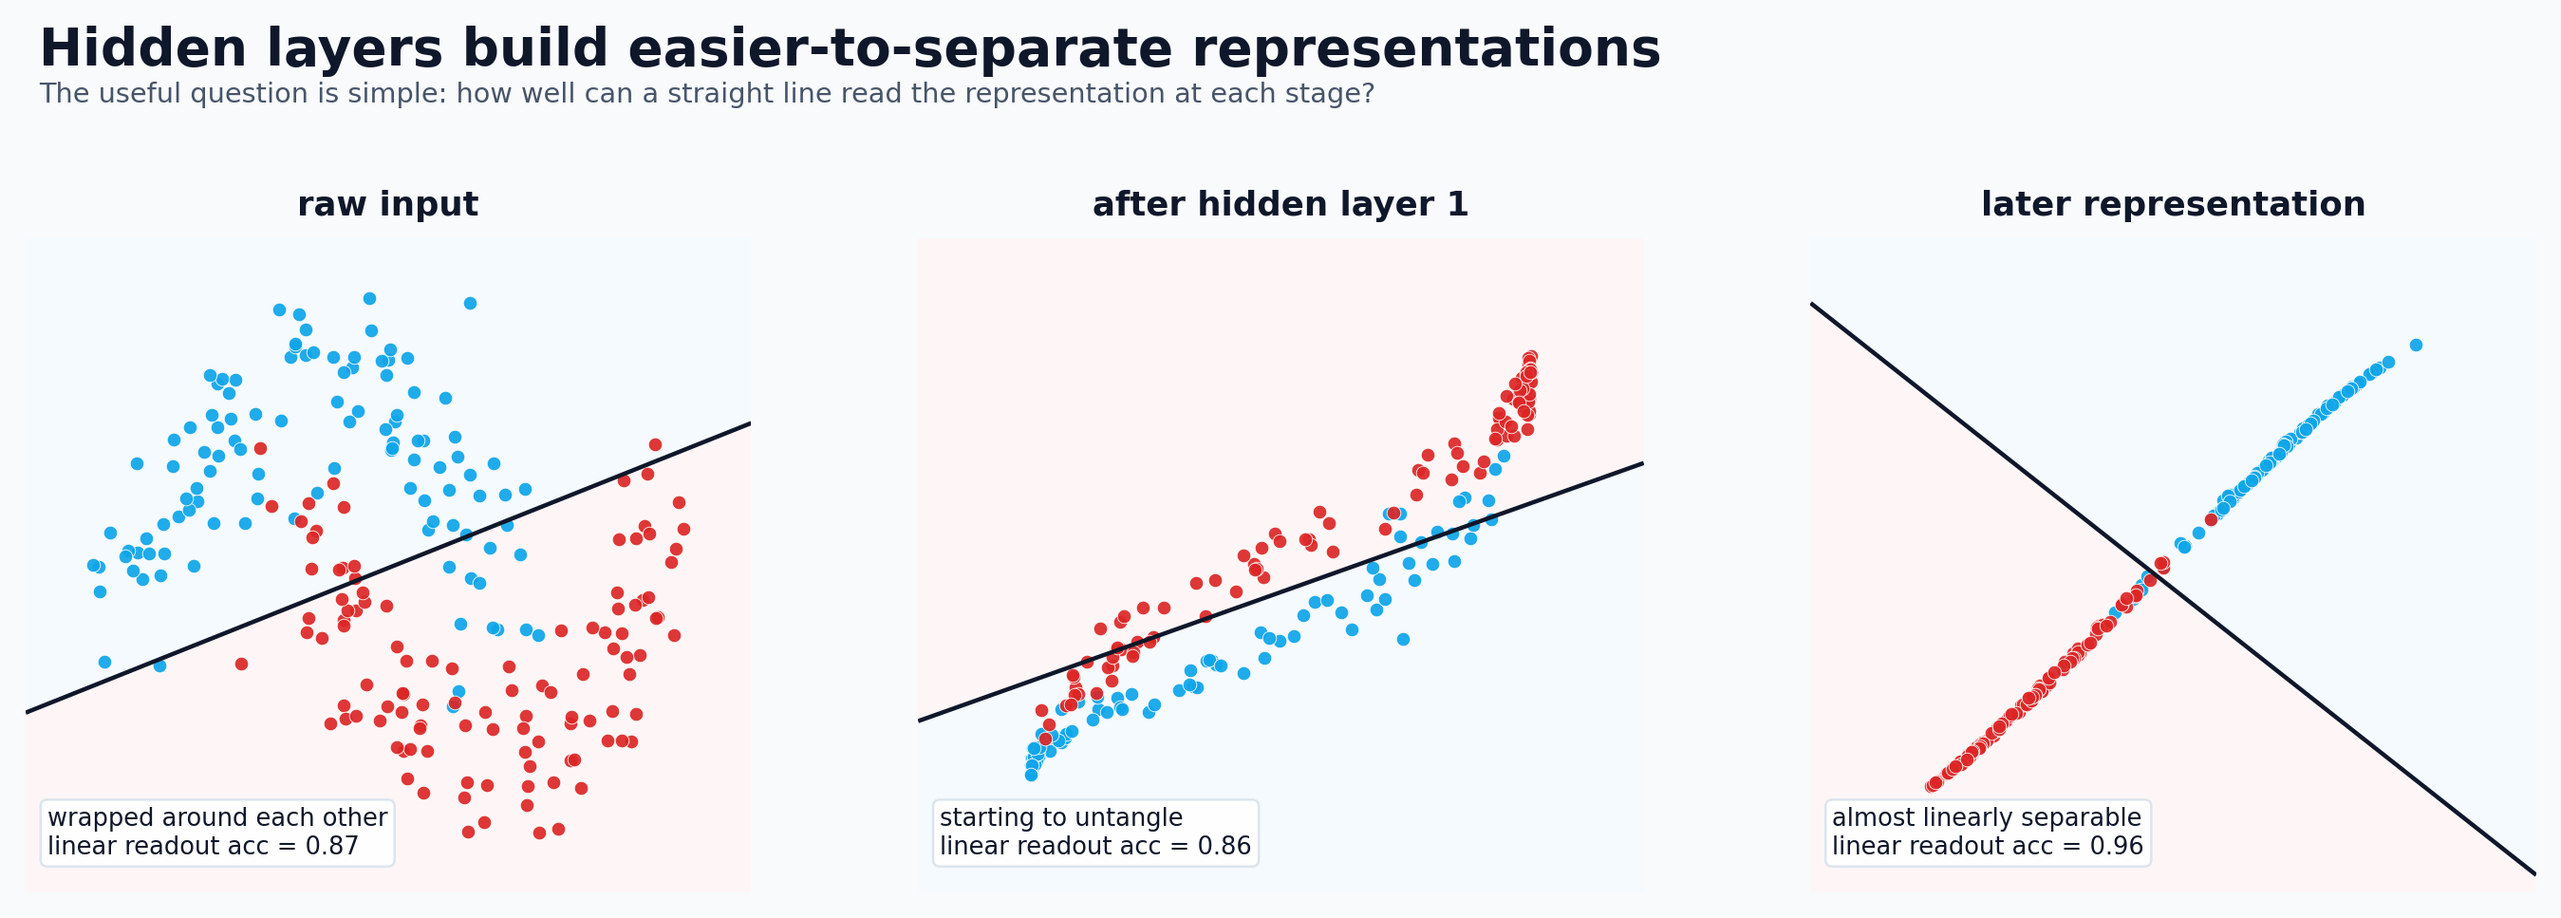
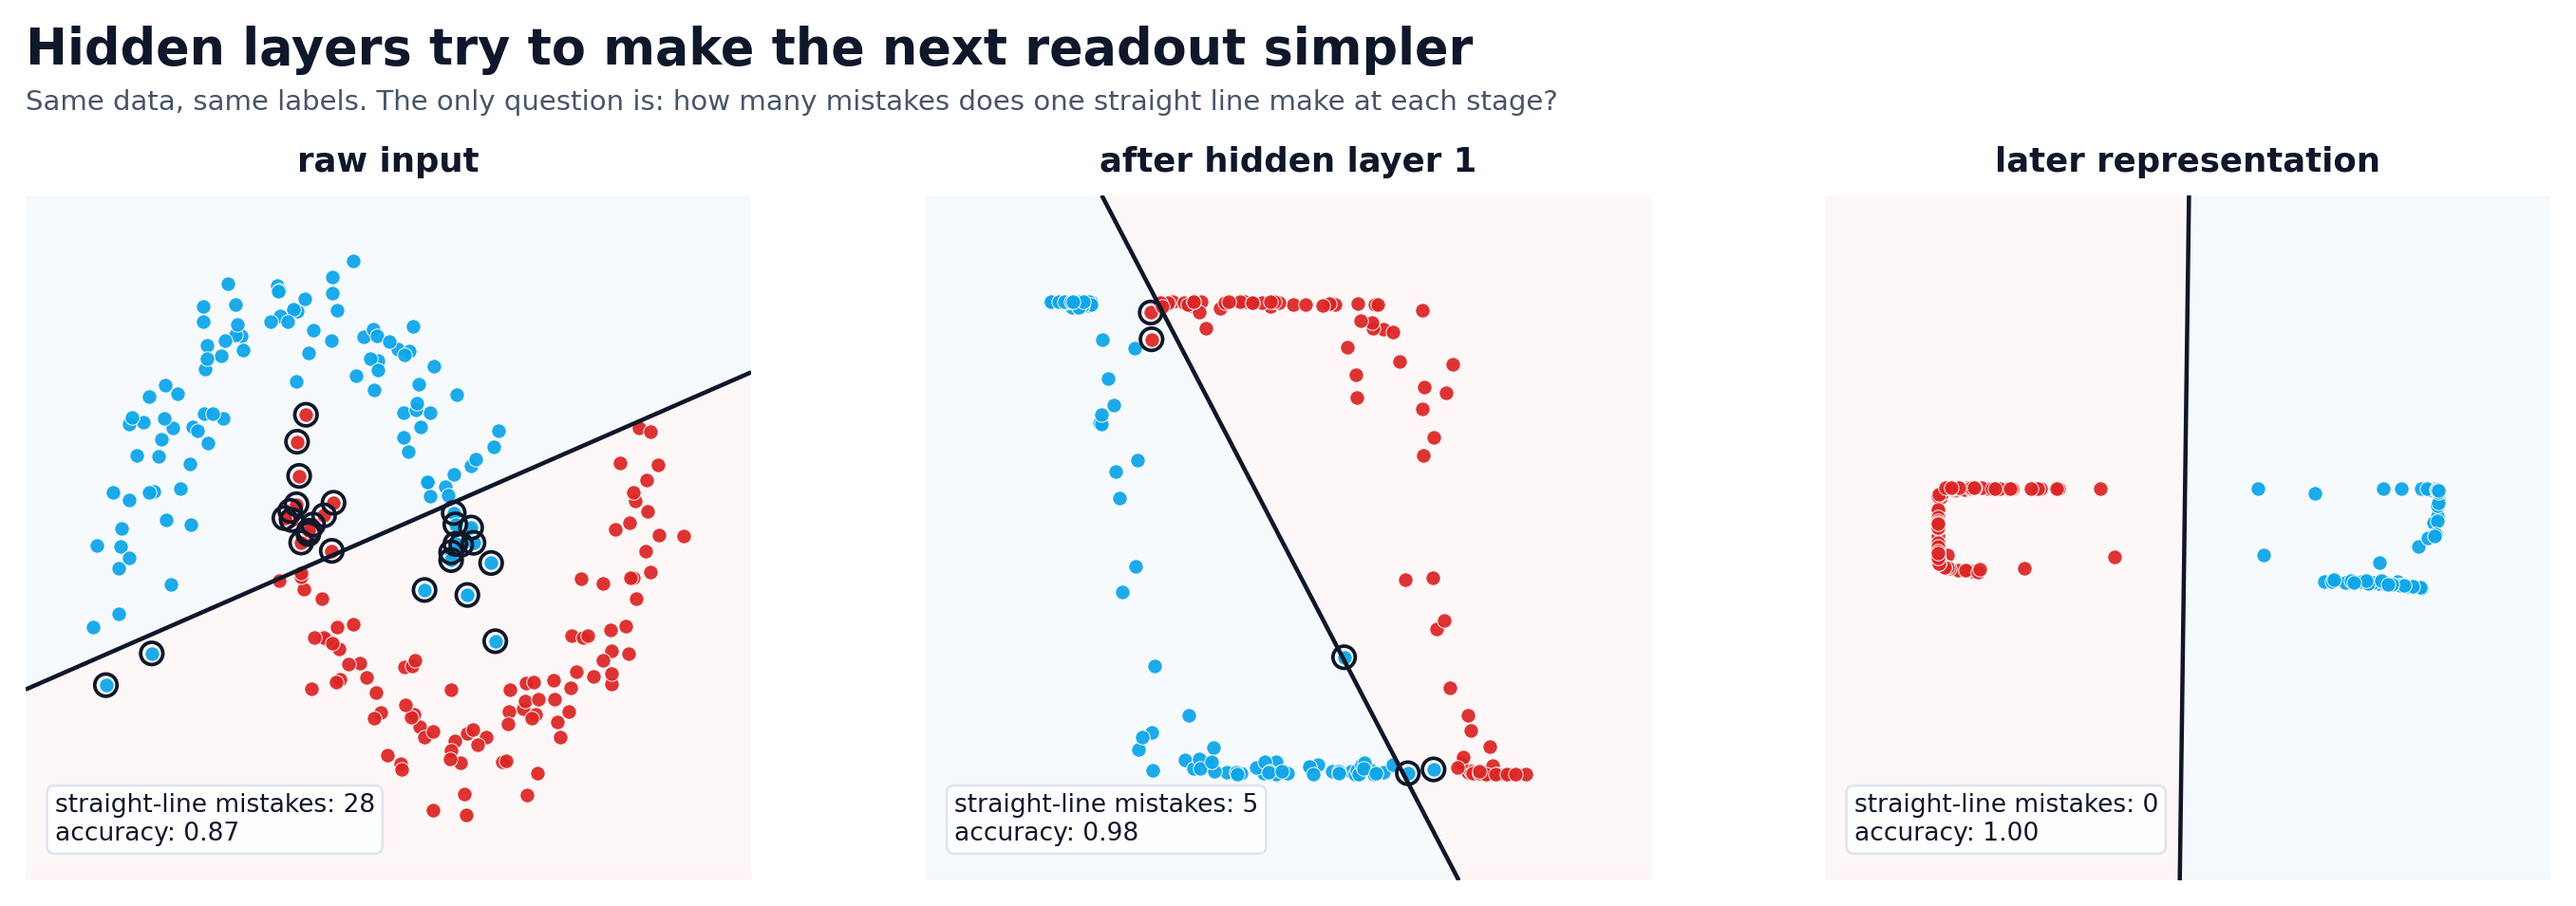
Redesign neuron and representation figures

diff --git a/scripts/generate_neural_network_article_images.py b/scripts/generate_neural_network_article_images.py
@@ -403,7 +403,7 @@ def image_activation_functions():
 
 
 def image_representation_building():
-    raw, labels = make_moons(n_samples=220, noise=0.17, random_state=7)
+    raw, labels = make_moons(n_samples=220, noise=0.12, random_state=1)
     raw = StandardScaler().fit_transform(raw)
     model = MLPClassifier(
         hidden_layer_sizes=(2, 2),
@@ -411,7 +411,7 @@ def image_representation_building():
         solver='lbfgs',
         alpha=1e-2,
         max_iter=6000,
-        random_state=7,
+        random_state=1,
     )
     model.fit(raw, labels)
 
@@ -422,30 +422,36 @@ def image_representation_building():
         activations.append(current.copy())
 
     stages = [
-        ('raw input', raw, 'wrapped around each other'),
-        ('after hidden layer 1', activations[0], 'starting to untangle'),
-        ('later representation', activations[1], 'almost linearly separable'),
+        ('raw input', raw),
+        ('after hidden layer 1', activations[0]),
+        ('later representation', activations[1]),
     ]
 
-    fig, axes = plt.subplots(1, 3, figsize=(15.8, 5.8), facecolor=COLORS['bg'])
-    fig.subplots_adjust(top=0.78, left=0.055, right=0.985, bottom=0.12, wspace=0.23)
-    title_block(fig, 'Hidden layers build easier-to-separate representations', 'The useful question is simple: how well can a straight line read the representation at each stage?')
+    fig, axes = plt.subplots(1, 3, figsize=(15.8, 5.9), facecolor='white')
+    fig.text(0.05, 0.95, 'Hidden layers try to make the next readout simpler', fontsize=21, fontweight='bold', color=COLORS['ink'])
+    fig.text(0.05, 0.905, 'Same data, same labels. The only question is: how many mistakes does one straight line make at each stage?', fontsize=11.7, color=COLORS['muted'])
+    fig.subplots_adjust(top=0.82, left=0.05, right=0.985, bottom=0.14, wspace=0.24)
 
-    for ax, (label, data, note) in zip(axes, stages):
+    for ax, (label, data) in zip(axes, stages):
         probe = LogisticRegression(max_iter=4000)
         probe.fit(data, labels)
         accuracy = probe.score(data, labels)
+        predictions = probe.predict(data)
+        mistakes = predictions != labels
+        mistake_count = int(mistakes.sum())
 
         x_min, x_max = data[:, 0].min() - 0.45, data[:, 0].max() + 0.45
         y_min, y_max = data[:, 1].min() - 0.45, data[:, 1].max() + 0.45
         xx, yy = np.meshgrid(np.linspace(x_min, x_max, 220), np.linspace(y_min, y_max, 220))
         decision = probe.coef_[0, 0] * xx + probe.coef_[0, 1] * yy + probe.intercept_[0]
-        ax.contourf(xx, yy, decision, levels=[-1e9, 0, 1e9], colors=['#e8f4fb', '#fdecec'], alpha=0.45)
+        ax.contourf(xx, yy, decision, levels=[-1e9, 0, 1e9], colors=['#e8f4fb', '#fdecec'], alpha=0.38)
         ax.contour(xx, yy, decision, levels=[0], colors=[COLORS['ink']], linewidths=1.8)
-        ax.scatter(data[labels == 0, 0], data[labels == 0, 1], color=COLORS['blue_dark'], s=34, alpha=0.92, edgecolor='white', linewidth=0.35)
-        ax.scatter(data[labels == 1, 0], data[labels == 1, 1], color=COLORS['red_dark'], s=34, alpha=0.92, edgecolor='white', linewidth=0.35)
+        ax.scatter(data[labels == 0, 0], data[labels == 0, 1], color=COLORS['blue_dark'], s=38, alpha=0.94, edgecolor='white', linewidth=0.4)
+        ax.scatter(data[labels == 1, 0], data[labels == 1, 1], color=COLORS['red_dark'], s=38, alpha=0.94, edgecolor='white', linewidth=0.4)
+        if mistake_count:
+            ax.scatter(data[mistakes, 0], data[mistakes, 1], s=88, facecolors='none', edgecolors=COLORS['ink'], linewidth=1.5)
         ax.set_title(label, fontsize=14.2, pad=10, fontweight='bold')
-        ax.text(0.03, 0.05, f'{note}\nlinear readout acc = {accuracy:.2f}', transform=ax.transAxes, fontsize=10.3, color=COLORS['ink'], va='bottom', bbox={'boxstyle': 'round,pad=0.28', 'fc': 'white', 'ec': '#dbe4ee', 'alpha': 0.96})
+        ax.text(0.04, 0.05, f'straight-line mistakes: {mistake_count}\naccuracy: {accuracy:.2f}', transform=ax.transAxes, fontsize=10.6, color=COLORS['ink'], va='bottom', bbox={'boxstyle': 'round,pad=0.30', 'fc': 'white', 'ec': '#dbe4ee', 'alpha': 0.96})
         ax.set_xticks([])
         ax.set_yticks([])
         ax.set_xlim(x_min, x_max)
@@ -524,78 +530,87 @@ def image_backprop_blame_assignment():
 
 
 def image_neuron_scoring_rule():
-    inputs = np.array([0.90, 0.40, 0.20])
-    weights = np.array([1.50, -0.80, 0.60])
+    feature_names = ['smoke density', 'room heat', 'shower steam']
+    inputs = np.array([0.90, 0.55, 0.30])
+    weights = np.array([1.40, 0.80, -1.10])
     contributions = inputs * weights
-    bias = -0.45
+    bias = -0.60
     z = contributions.sum() + bias
     activation = 1 / (1 + np.exp(-z))
 
-    fig = plt.figure(figsize=(13.4, 4.8), facecolor='white')
-    gs = fig.add_gridspec(1, 3, left=0.05, right=0.98, bottom=0.16, top=0.92, width_ratios=[1.02, 1.30, 0.92], wspace=0.22)
+    fig = plt.figure(figsize=(13.8, 5.9), facecolor='white')
+    fig.text(0.05, 0.95, 'A neuron is just a scoring rule plus a switch', fontsize=21, fontweight='bold', color=COLORS['ink'])
+    fig.text(0.05, 0.905, 'Smoke and heat push the alarm score up. Shower steam pushes it back down. The activation says how strongly the unit fires.', fontsize=11.7, color=COLORS['muted'])
+
+    gs = fig.add_gridspec(1, 3, left=0.05, right=0.98, bottom=0.14, top=0.84, width_ratios=[1.05, 1.18, 0.92], wspace=0.22)
     ax_table = fig.add_subplot(gs[0, 0])
     ax_sum = fig.add_subplot(gs[0, 1])
     ax_act = fig.add_subplot(gs[0, 2])
 
-    for ax in (ax_table, ax_sum, ax_act):
-        ax.set_facecolor('white')
-
     ax_table.set_xlim(0, 1)
     ax_table.set_ylim(0, 1)
     ax_table.axis('off')
-    ax_table.text(0.04, 0.93, 'inputs', fontsize=13.5, fontweight='bold', color=COLORS['ink'])
-    ax_table.text(0.32, 0.93, 'weight', fontsize=13.5, fontweight='bold', color=COLORS['ink'])
-    ax_table.text(0.70, 0.93, r'$w_i x_i$', fontsize=13.5, fontweight='bold', color=COLORS['ink'])
-    ax_table.plot([0.68, 0.68], [0.18, 0.86], color='#cbd5e1', linewidth=1)
-    row_y = [0.74, 0.54, 0.34]
-    scale = 0.20 / np.max(np.abs(contributions))
-    for index, (value, weight, contribution, y) in enumerate(zip(inputs, weights, contributions, row_y), start=1):
-        ax_table.text(0.04, y, fr'$x_{index}$ = {value:.2f}', fontsize=12.5, va='center')
-        ax_table.text(0.32, y, f'{weight:+.2f}', fontsize=12.5, va='center')
+    ax_table.text(0.04, 0.92, 'current signals', fontsize=13.8, fontweight='bold', color=COLORS['ink'])
+    ax_table.text(0.04, 0.82, 'signal', fontsize=12.0, fontweight='bold')
+    ax_table.text(0.45, 0.82, 'reading', fontsize=11.2, fontweight='bold', ha='center')
+    ax_table.text(0.68, 0.82, 'weight', fontsize=11.2, fontweight='bold', ha='center')
+    ax_table.text(0.93, 0.82, 'pull', fontsize=12.0, fontweight='bold', ha='center')
+    zero_x = 0.84
+    ax_table.plot([zero_x, zero_x], [0.17, 0.76], color='#cbd5e1', linewidth=1)
+    row_y = [0.67, 0.47, 0.27]
+    scale = 0.11 / np.max(np.abs(contributions))
+    row_colors = [COLORS['blue_dark'], COLORS['green_dark'], COLORS['red_dark']]
+    for name, value, weight, contribution, y, color in zip(feature_names, inputs, weights, contributions, row_y, row_colors):
+        ax_table.text(0.04, y, name, fontsize=12.3, va='center')
+        ax_table.text(0.50, y, f'{value:.2f}', fontsize=12.3, va='center', ha='center')
+        ax_table.text(0.69, y, f'{weight:+.2f}', fontsize=12.3, va='center', ha='center')
         width = contribution * scale
-        color = COLORS['blue_dark'] if contribution >= 0 else COLORS['red_dark']
-        ax_table.add_patch(Rectangle((min(0.68, 0.68 + width), y - 0.045), abs(width), 0.09, facecolor=color, alpha=0.85, edgecolor='none', transform=ax_table.transAxes))
-        ax_table.text(0.68 + width + (0.02 if contribution >= 0 else -0.02), y, f'{contribution:+.2f}', fontsize=11.6, va='center', ha='left' if contribution >= 0 else 'right')
-        ax_table.plot([0.02, 0.96], [y - 0.10, y - 0.10], color='#eef2f7', linewidth=1)
-    ax_table.text(0.04, 0.10, fr'$b$ = {bias:+.2f}', fontsize=12.5, color=COLORS['amber_dark'])
+        left = zero_x if contribution >= 0 else zero_x + width
+        ax_table.add_patch(Rectangle((left, y - 0.045), abs(width), 0.09, facecolor=color, alpha=0.90, edgecolor='none', transform=ax_table.transAxes))
+        ax_table.text(0.98, y, f'{contribution:+.2f}', fontsize=11.8, va='center', ha='right')
+        ax_table.plot([0.04, 0.98], [y - 0.10, y - 0.10], color='#eef2f7', linewidth=1)
+    ax_table.text(0.04, 0.08, f'bias = {bias:+.2f}', fontsize=12.2, color=COLORS['muted'])
 
-    ax_sum.set_xlim(-0.6, 1.6)
+    ax_sum.set_xlim(-0.45, 1.45)
     ax_sum.set_ylim(0, 1)
     ax_sum.set_yticks([])
-    ax_sum.set_xticks(np.arange(-0.5, 1.6, 0.5))
-    ax_sum.grid(axis='x', alpha=0.14)
+    ax_sum.set_xticks(np.arange(-0.25, 1.51, 0.25))
+    ax_sum.grid(axis='x', alpha=0.12)
     sns.despine(ax=ax_sum, left=True, bottom=False)
-    ax_sum.text(0.02, 0.93, 'weighted sum', transform=ax_sum.transAxes, fontsize=13.5, fontweight='bold')
-    ax_sum.text(0.02, 0.84, r'$z = \sum_i w_i x_i + b$', transform=ax_sum.transAxes, fontsize=12.0, color=COLORS['muted'])
-    ax_sum.hlines(0.46, -0.6, 1.6, color='#cbd5e1', linewidth=2)
+    ax_sum.text(0.00, 0.93, 'alarm score before activation', transform=ax_sum.transAxes, fontsize=13.8, fontweight='bold')
+    ax_sum.text(0.00, 0.84, f'{contributions[0]:.2f} + {contributions[1]:.2f} - {abs(contributions[2]):.2f} - {abs(bias):.2f} = {z:.2f}', transform=ax_sum.transAxes, fontsize=11.4, color=COLORS['muted'])
+    ax_sum.hlines(0.46, -0.45, 1.45, color='#cbd5e1', linewidth=2)
+    ax_sum.axvline(0, color=COLORS['ink'], linewidth=1.5)
     current = 0.0
+    labels = ['smoke', 'heat', 'steam', 'bias']
     deltas = [*contributions, bias]
-    colors = [COLORS['blue_dark'] if delta >= 0 else COLORS['red_dark'] for delta in contributions] + [COLORS['amber_dark']]
-    for delta, color in zip(deltas, colors):
+    colors = [COLORS['blue_dark'], COLORS['green_dark'], COLORS['red_dark'], COLORS['muted']]
+    for delta, label, color in zip(deltas, labels, colors):
         nxt = current + delta
-        ax_sum.plot([current, nxt], [0.46, 0.46], color=color, linewidth=12, solid_capstyle='round', alpha=0.90)
-        ax_sum.scatter([nxt], [0.46], s=48, color=color, zorder=3)
+        ax_sum.plot([current, nxt], [0.46, 0.46], color=color, linewidth=14, solid_capstyle='round', alpha=0.90)
+        ax_sum.scatter([nxt], [0.46], s=58, color=color, zorder=3)
+        if label != 'bias':
+            ax_sum.text((current + nxt) / 2, 0.70 if delta >= 0 else 0.22, f'{label}\n{delta:+.2f}', ha='center', va='center', fontsize=10.4)
         current = nxt
-    ax_sum.axvline(0, color=COLORS['ink'], linewidth=1.4, alpha=0.65)
-    ax_sum.text(0.47, 0.63, r'1.35 - 0.32 + 0.12 - 0.45 = 0.70', transform=ax_sum.transAxes, fontsize=12.0, fontweight='bold')
-    ax_sum.text(z, 0.74, fr'$z$ = {z:.2f}', ha='center', fontsize=12.6, fontweight='bold')
+    ax_sum.text(z, 0.78, f'score z = {z:.2f}', ha='center', fontsize=12.6, fontweight='bold', color=COLORS['ink'])
 
     raw = np.linspace(-4, 4, 400)
     curve = 1 / (1 + np.exp(-raw))
-    ax_act.plot(raw, curve, color=COLORS['purple'], linewidth=2.6)
-    ax_act.scatter([z], [activation], s=64, color=COLORS['purple'], zorder=3)
+    ax_act.plot(raw, curve, color=COLORS['purple'], linewidth=2.8)
+    ax_act.scatter([z], [activation], s=72, color=COLORS['purple'], zorder=3)
     ax_act.axvline(z, color='#cbd5e1', linewidth=1.2, linestyle='--')
     ax_act.axhline(activation, color='#cbd5e1', linewidth=1.2, linestyle='--')
+    ax_act.axhline(0.5, color='#e2e8f0', linewidth=1.0, linestyle=':')
     ax_act.set_xlim(-4, 4)
     ax_act.set_ylim(0, 1.02)
-    ax_act.set_title('activation', loc='left', fontsize=13.5, pad=8, fontweight='bold')
-    ax_act.set_xlabel(r'pre-activation $z$')
-    ax_act.set_ylabel(r'output $a$')
+    ax_act.set_title('how strongly the unit fires', loc='left', fontsize=13.8, pad=8, fontweight='bold')
+    ax_act.set_xlabel('pre-activation score z')
+    ax_act.set_ylabel('activation a')
     ax_act.grid(alpha=0.14)
     sns.despine(ax=ax_act)
-    ax_act.text(0.04, 0.90, fr'$a = \sigma(z) = {activation:.2f}$', transform=ax_act.transAxes, fontsize=12.2, fontweight='bold', color=COLORS['ink'])
-    save(fig, 'neuron-scoring-rule.png')
+    ax_act.text(0.05, 0.90, f'alarm activity = {activation:.2f}', transform=ax_act.transAxes, fontsize=12.0, fontweight='bold', color=COLORS['ink'])
 
+    save(fig, 'neuron-scoring-rule.png')
 
 def image_weights_biases():
     feature_names = ['cold room', 'someone home', 'afternoon sun']

diff --git a/_notes/neural-network-figure-scorecard.md b/_notes/neural-network-figure-scorecard.md
@@ -18,11 +18,11 @@ Shipping threshold: `40/50` and no score below `3`.
 | Figure | LC | PL | RO | FC | QH | MA | TF | VE | AC | EP | Total |
 | --- | ---: | ---: | ---: | ---: | ---: | ---: | ---: | ---: | ---: | ---: | ---: |
 | `explanation-problem.png` | 4 | 5 | 5 | 4 | 5 | 4 | 5 | 4 | 4 | 4 | 44 |
-| `neuron-scoring-rule.png` | 5 | 4 | 5 | 4 | 5 | 5 | 4 | 4 | 4 | 4 | 44 |
+| `neuron-scoring-rule.png` | 5 | 5 | 5 | 4 | 5 | 5 | 5 | 4 | 4 | 4 | 46 |
 | `weights-biases.png` | 5 | 4 | 5 | 5 | 5 | 5 | 5 | 4 | 4 | 4 | 46 |
 | `weights-bias-threshold-shift.gif` | 5 | 4 | 5 | 5 | 5 | 4 | 4 | 4 | 4 | 4 | 44 |
 | `activation-functions.png` | 4 | 4 | 5 | 4 | 5 | 5 | 5 | 4 | 4 | 5 | 45 |
-| `representation-building.png` | 4 | 4 | 5 | 5 | 4 | 4 | 5 | 4 | 4 | 4 | 43 |
+| `representation-building.png` | 5 | 4 | 5 | 5 | 5 | 4 | 5 | 4 | 4 | 4 | 45 |
 | `backprop-blame-assignment.png` | 5 | 4 | 5 | 5 | 4 | 5 | 4 | 4 | 4 | 5 | 45 |
 | `debugging-checklist.png` | 4 | 5 | 5 | 4 | 5 | 4 | 5 | 4 | 4 | 5 | 45 |
 
@@ -33,8 +33,8 @@ Shipping threshold: `40/50` and no score below `3`.
   - Still a little box-heavy, but not confusing.
 
 - `neuron-scoring-rule.png`
-  - Good teaching arc from inputs to weighted sum to activation.
-  - Next improvement would be slightly more breathing room around the left table.
+  - Much stronger now because it uses a concrete smoke-alarm example instead of bare symbols.
+  - The visual story is finally honest: evidence comes in, one score gets built, then the activation turns that score into a response.
 
 - `weights-biases.png`
   - Strongest current figure because the example is concrete and the cutoff shift is explicit.
@@ -49,8 +49,8 @@ Shipping threshold: `40/50` and no score below `3`.
   - Still more generic than the best figures in the set because it shows curves but not a concrete downstream consequence.
 
 - `representation-building.png`
-  - Good before/after progression.
-  - Could get stronger with one more explicit cue about why the final line reads the later representation better.
+  - Stronger now because the reader can literally count the straight-line mistakes shrinking across stages.
+  - The progression is finally monotonic and easier to trust: 28 mistakes, then 5, then 0.
 
 - `backprop-blame-assignment.png`
   - Better split now: left side explains the signal flow, right side explains which parameters move most.

diff --git a/_posts/2024-06-30-understanding-the-component-parts-of-neural-networks.md b/_posts/2024-06-30-understanding-the-component-parts-of-neural-networks.md
@@ -103,9 +103,9 @@ That is why I think of neurons as **scoring rules** now. A neuron is not thinkin
 
 Most of those scores are meaningless on their own. The value shows up when later units combine them into something the model can actually use. The brain metaphor gets in the way here. If you expect intelligence at the neuron level, you will be disappointed. If you expect simple operations compounding into capability, the whole system makes much more sense.
 
-![Diagram of a neuron as inputs, weights, bias, activation, and output.](/assets/img/posts/neural-network-components/neuron-scoring-rule.png)
+![Smoke-alarm example of a neuron scoring evidence, adding bias, and producing an activation.](/assets/img/posts/neural-network-components/neuron-scoring-rule.png)
 
-*This is the core pattern underneath all the complexity: signals come in, get scored, get reshaped, and move forward.*
+*Same pattern, but easier to see: evidence comes in, gets combined into one score, then gets turned into a stronger or weaker response.*
 
 That is why neural networks became easier for me once I stopped trying to imagine intelligence at the neuron level. It is cleaner to imagine tiny scoring operations building toward something useful.
 
